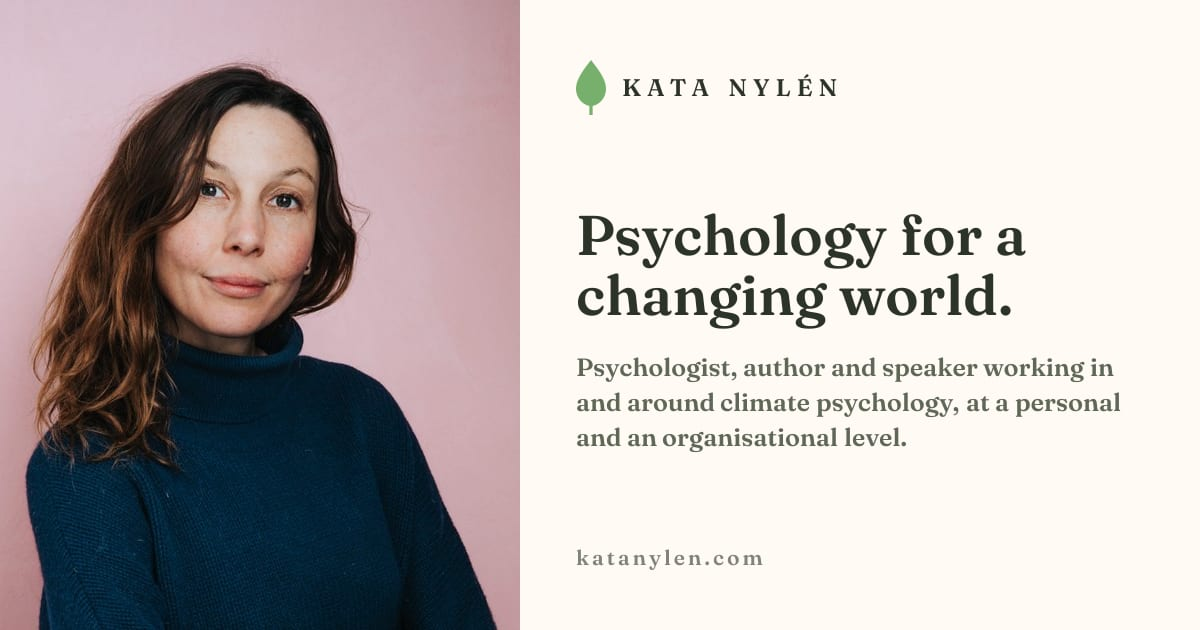
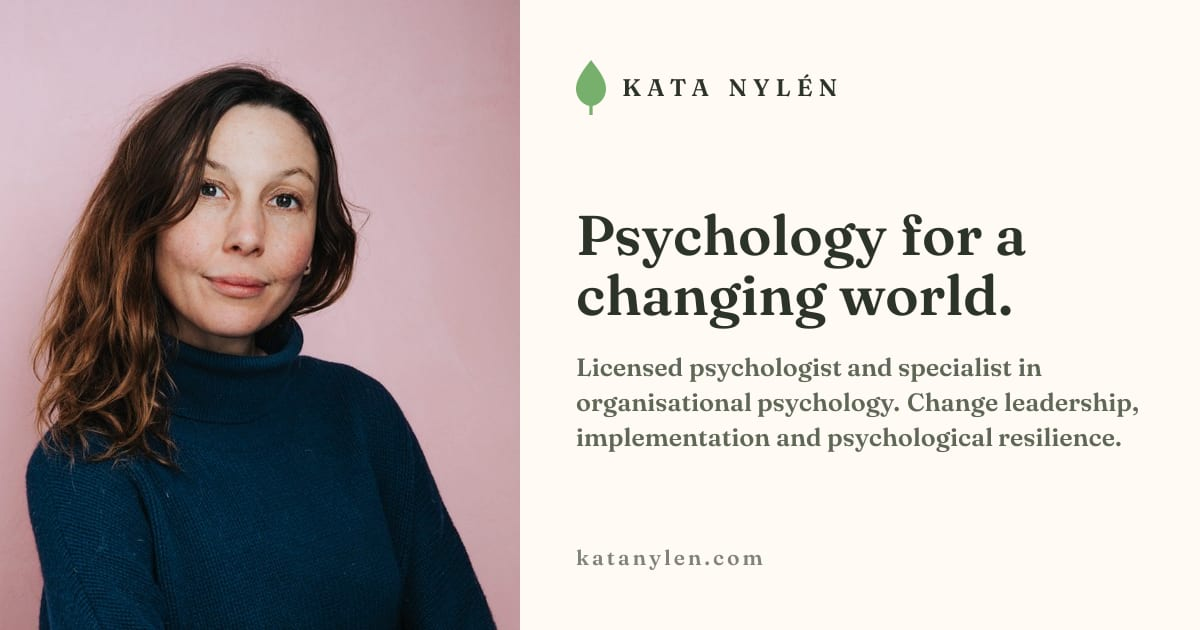
fix(og): bring the sharing cards in line, and stop them drifting
The cards are what people actually see when the link is shared, and
nobody looks at them, which is where a stale fact survives longest.

- The site card described Kata as working "in and around climate
  psychology", which is the positioning she asked us to move away from.
  It now reads from person.jobTitle, so it follows her own words.
- The book card's event name, date and venue were typed into the script
  by hand. They were still right, but a change of venue would have left
  every shared link advertising the wrong door. All three now come from
  launchEvent.
- The home page title and description were the old climate-first copy.
  That description is the sentence Google shows and the one that
  appears under every shared link, so it now carries the credentials
  and the change leadership, implementation and resilience thread.

Also flags something the regenerated card made visible: our subtitle
says "motgangar" on Kata's instruction, while the cover artwork beside
it still says "motgang". Natur & Kultur's own title page agrees with
the cover. Her correction stands, since she wrote the book and it is
not published until November, but the page currently disagrees with
itself and she needs to settle it.

Changed region(s): [[0.4625, 0.573, 0.9558, 0.7238]]

diff --git a/src/content/facts.ts b/src/content/facts.ts
@@ -121,6 +121,22 @@ export const person = {
 export const book = {
   /* CONFIRMED from the book's own title page. */
   title: "Psykologisk resiliens" as Fact<string>,
+  /*
+    ⚠ UNRESOLVED, and visible on the site. Kata corrected this to the plural
+    "motgangar" on 28 Sep 2026 and asked for it to be consistent everywhere,
+    so that is what the text says.
+
+    But Natur & Kultur's own title page still reads "Att mota motgang i en
+    osaker varld", singular, and so does the cover artwork we hold from their
+    press download. The book-release page and its sharing card therefore show
+    our plural text directly beside a cover that says singular.
+
+    She is the author, so her correction wins for now, and the book is not out
+    until 6 November: the likeliest explanation is that the subtitle changed
+    late and the publisher's listing and our cover file are both pre-final.
+    Confirm with her, and if the final cover differs, replace
+    public/images/book-cover.webp and book-cover-og.jpg.
+  */
   subtitle: "Att möta motgångar i en osäker värld" as Fact<string>,
   /** The book is Swedish. On English pages the Swedish title leads and this
    *  follows in brackets, so the real title stays findable and searchable. */

diff --git a/src/content/sv.ts b/src/content/sv.ts
@@ -27,9 +27,12 @@ export const sv: SiteContent = {
 
   home: {
     seo: {
+      // This description is the sentence that shows in Google and on every
+      // shared link, so it carries the positioning Kata asked for rather than
+      // the old climate-first one.
       title: "Kata Nylén | Psykolog, författare och föreläsare",
       description:
-        "Kata Nylén är psykolog, författare och föreläsare. Hon arbetar med klimatpsykologi, psykologisk motståndskraft, beteendeförändring och hur människor möter osäkerhet.",
+        "Legitimerad psykolog och specialist i organisationspsykologi, författare och föreläsare. Kata Nylén arbetar med förändringsledning, implementering och psykologisk resiliens.",
     },
     hero: {
       eyebrow: "Kata Nylén",

diff --git a/src/content/en.ts b/src/content/en.ts
@@ -26,9 +26,12 @@ export const en: SiteContent = {
 
   home: {
     seo: {
+      // This description is the sentence that shows in Google and on every
+      // shared link, so it carries the positioning Kata asked for rather than
+      // the old climate-first one.
       title: "Kata Nylén | Psychologist, author and speaker",
       description:
-        "Kata Nylén is a Swedish psychologist, author and speaker working with climate psychology, psychological resilience, behavioural change and how people respond to uncertainty.",
+        "Licensed psychologist and specialist in organisational psychology, author and speaker. Kata Nylén works on change leadership, implementation and psychological resilience.",
     },
     hero: {
       eyebrow: "Kata Nylén",

diff --git a/Documents/revision-1.md b/Documents/revision-1.md
@@ -170,7 +170,15 @@ Items 1 to 6 of the original list are all answered and built. What remains:
    the seventeen contributors as authors, Kata among them, and none names an
    editor. The cover is now on the site too, taken from the publisher's press
    image.
-5. **The book synopsis.** The last unconfirmed fact in `facts.ts`: it is Natur
+5. **The book subtitle contradicts its own cover.** Kata corrected it to the
+   plural "motgångar" and the site now says that throughout. But Natur &
+   Kultur's title page still says "motgång", singular, and so does the cover
+   artwork from their press download, which sits next to our text on the
+   book-release page and on the sharing card. She is the author so her
+   correction stands, and the book is not out until 6 November, so the likely
+   answer is that the subtitle changed late. Needs confirming, and a new cover
+   file if it did.
+6. **The book synopsis.** The last unconfirmed fact in `facts.ts`: it is Natur
    & Kultur's own copy and still needs their sign-off.
 
 ---
